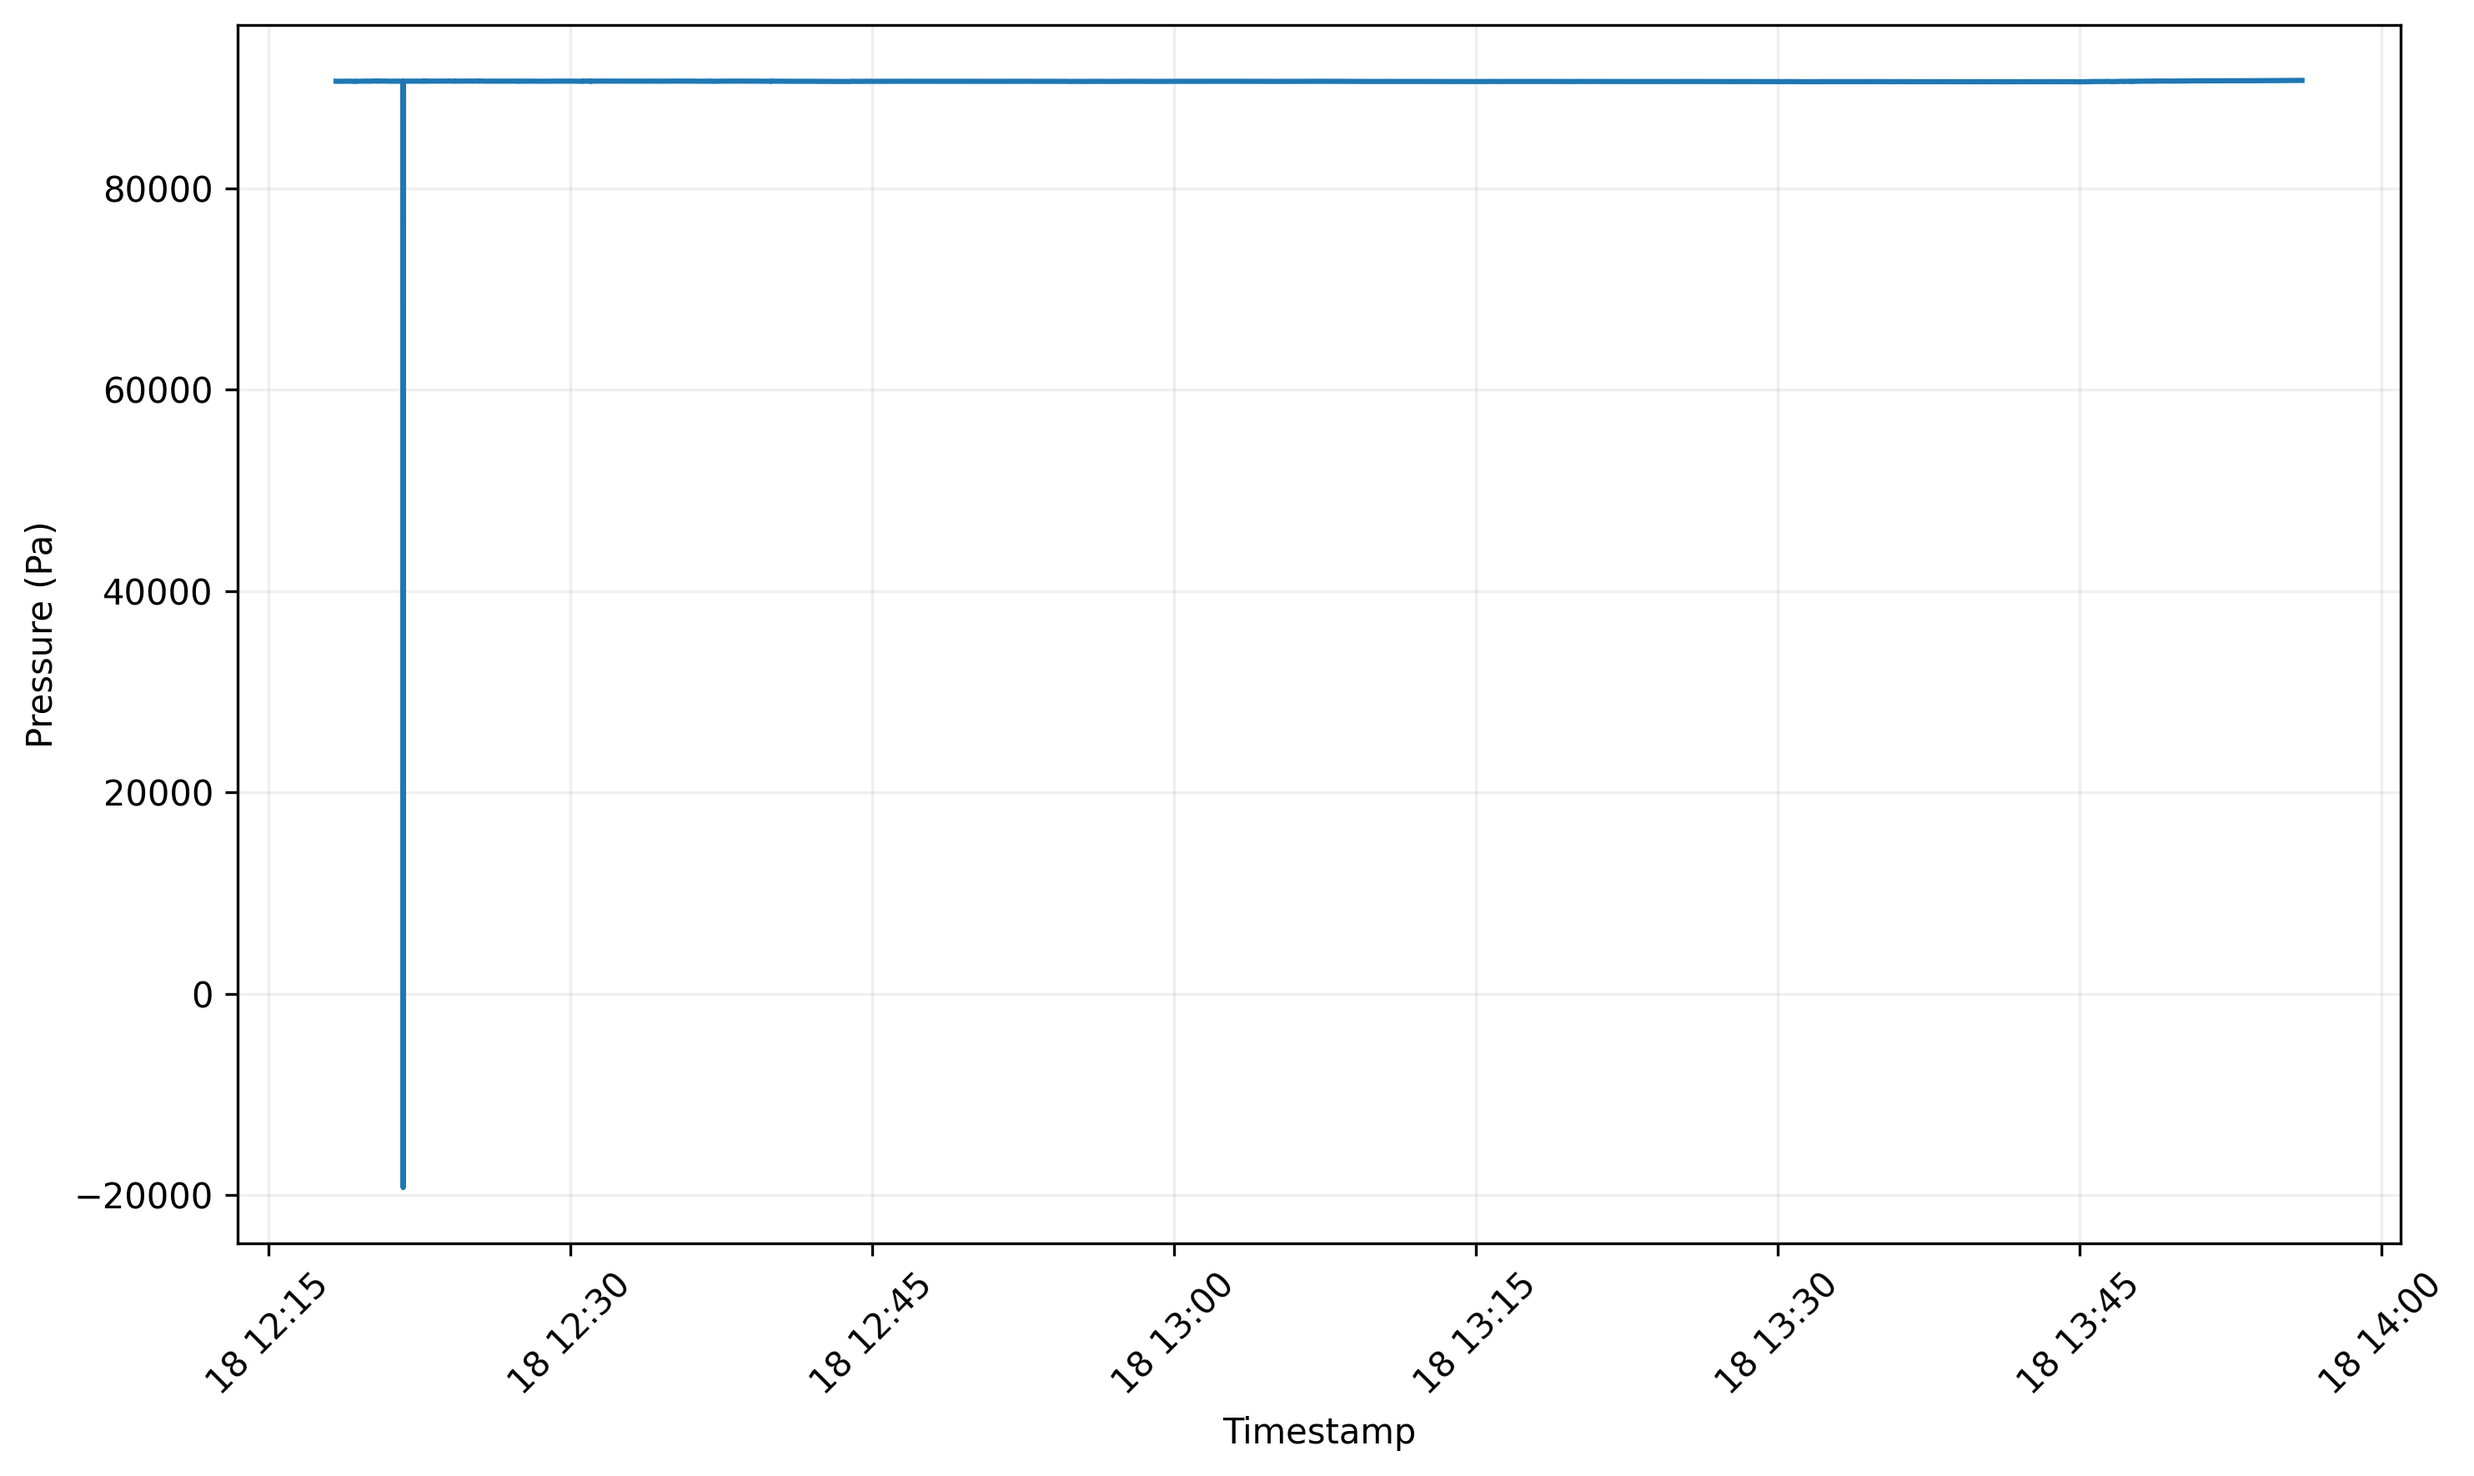
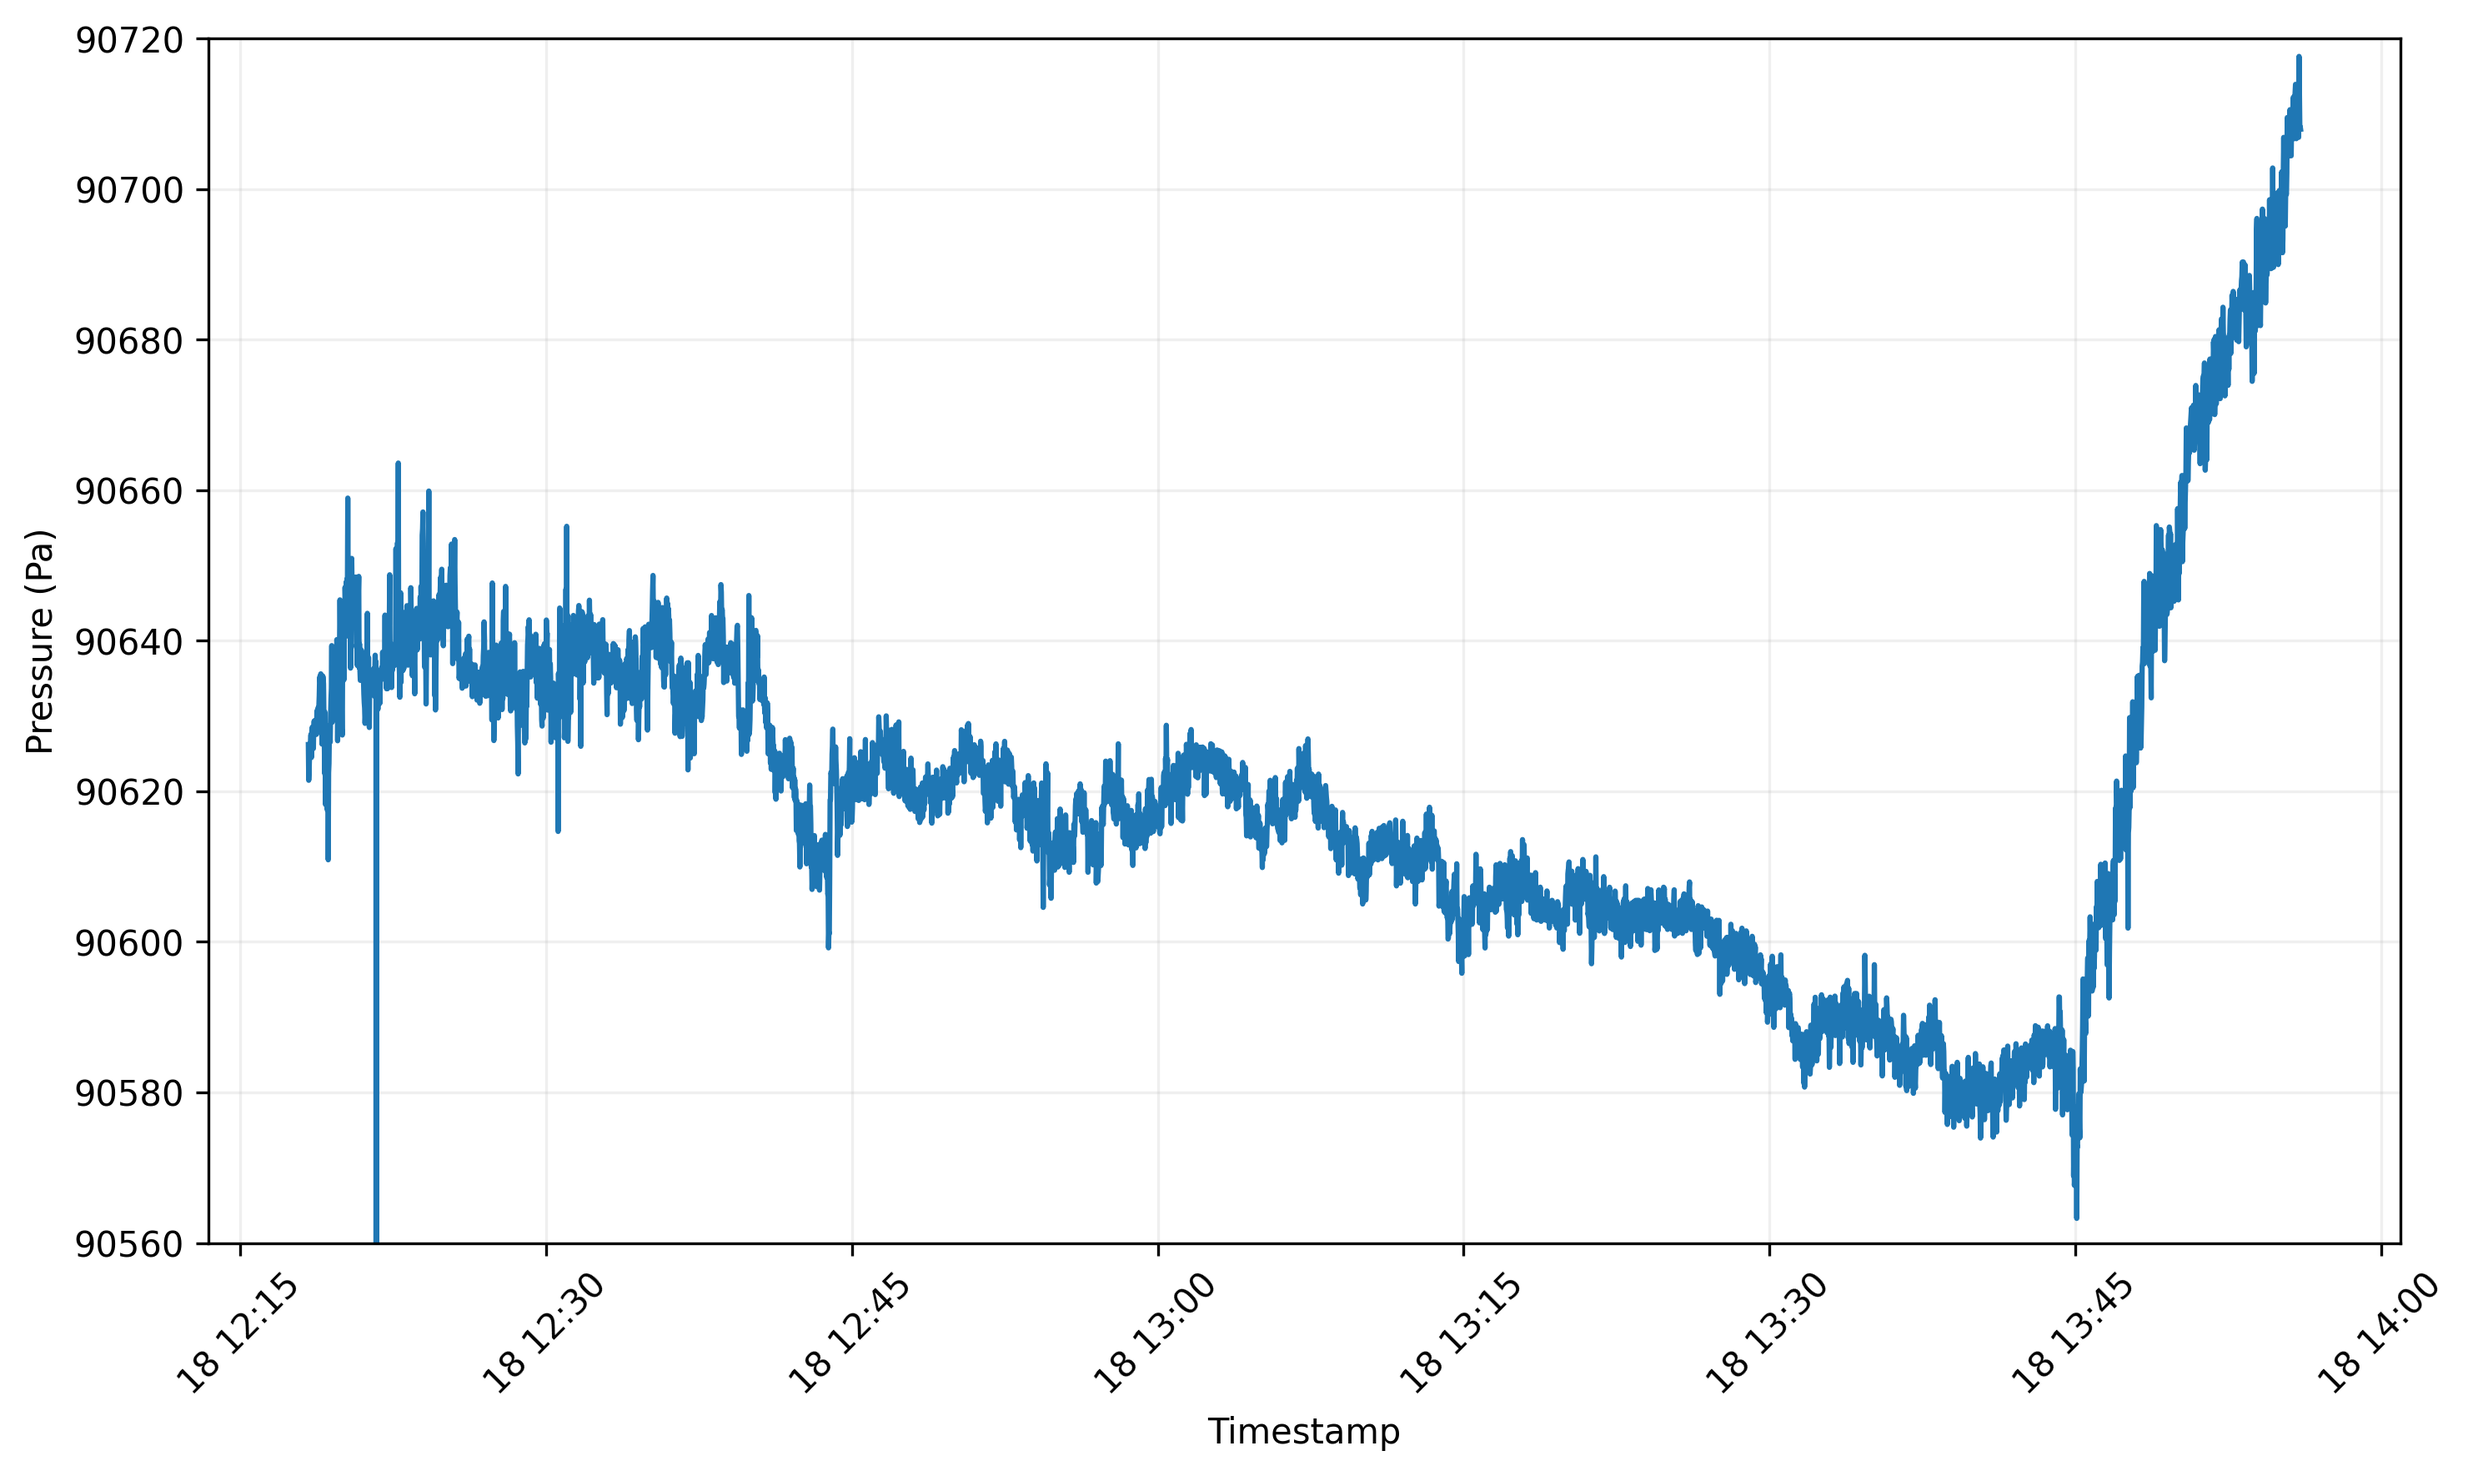
Set y limit to pressure graph

diff --git a/data/data_plot.py b/data/data_plot.py
@@ -83,6 +83,7 @@ def draw_pressure(data, start=None, end=None, interval=None, output_file=None):
 
     plt.figure(figsize=figure_size)
 
+    plt.ylim(90560, 90720)
     plt.plot(data_time, pressure)
 
     if interval:
@@ -140,6 +141,7 @@ def draw_pressure_temp(data, start=None, end=None, interval=None, output_file=No
     ax1.set_ylabel('Pressure (Pa)')
     line1 = ax1.plot(data_time, pressure, color="#1F77B4", linewidth=2, label='Pressure')
     ax1.tick_params(axis='y')
+    ax1.set_ylim(90560, 90720)
 
     # Create the twin axis sharing the same x-axis
     ax2 = ax1.twinx()
